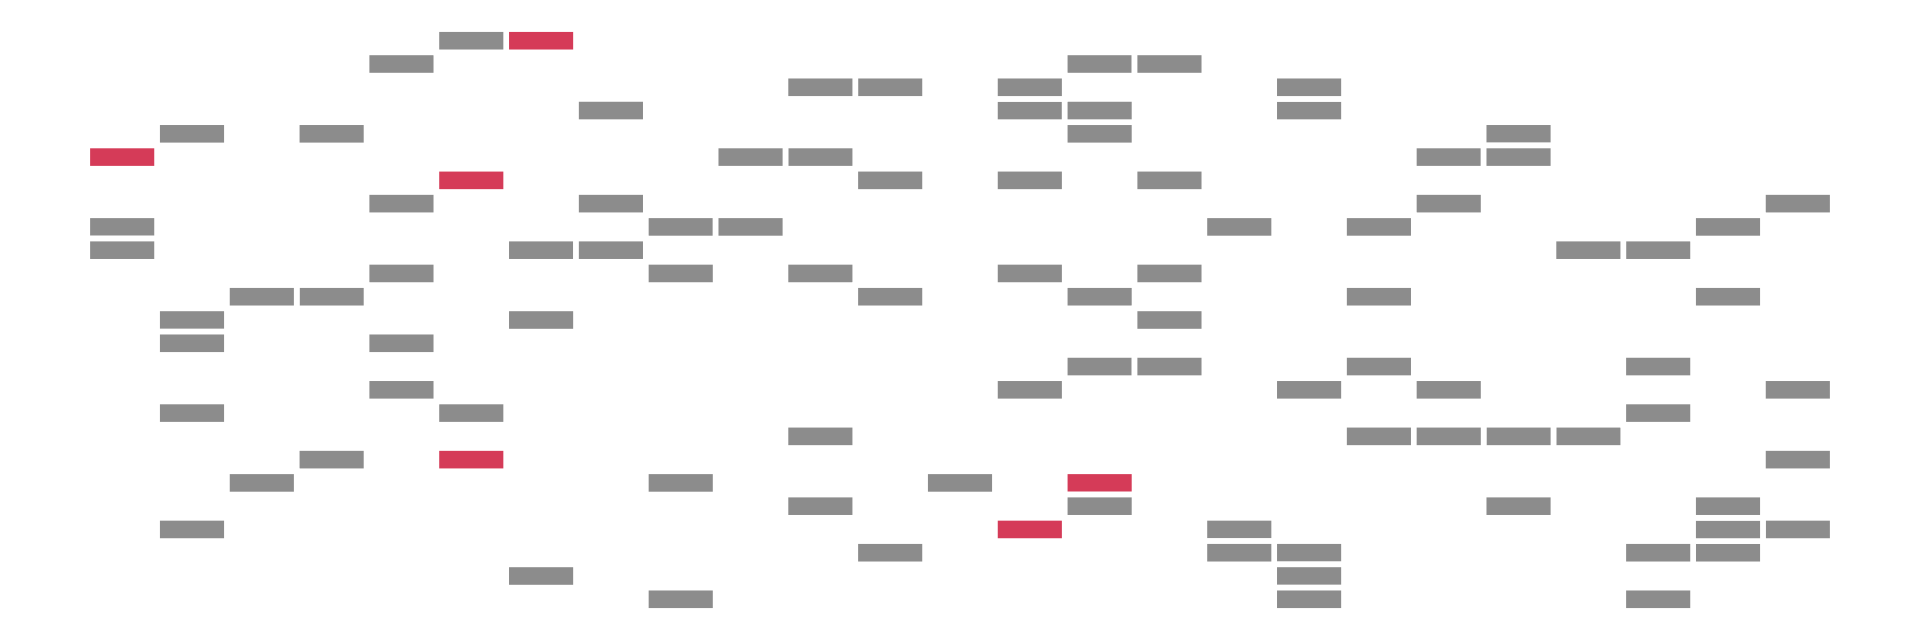
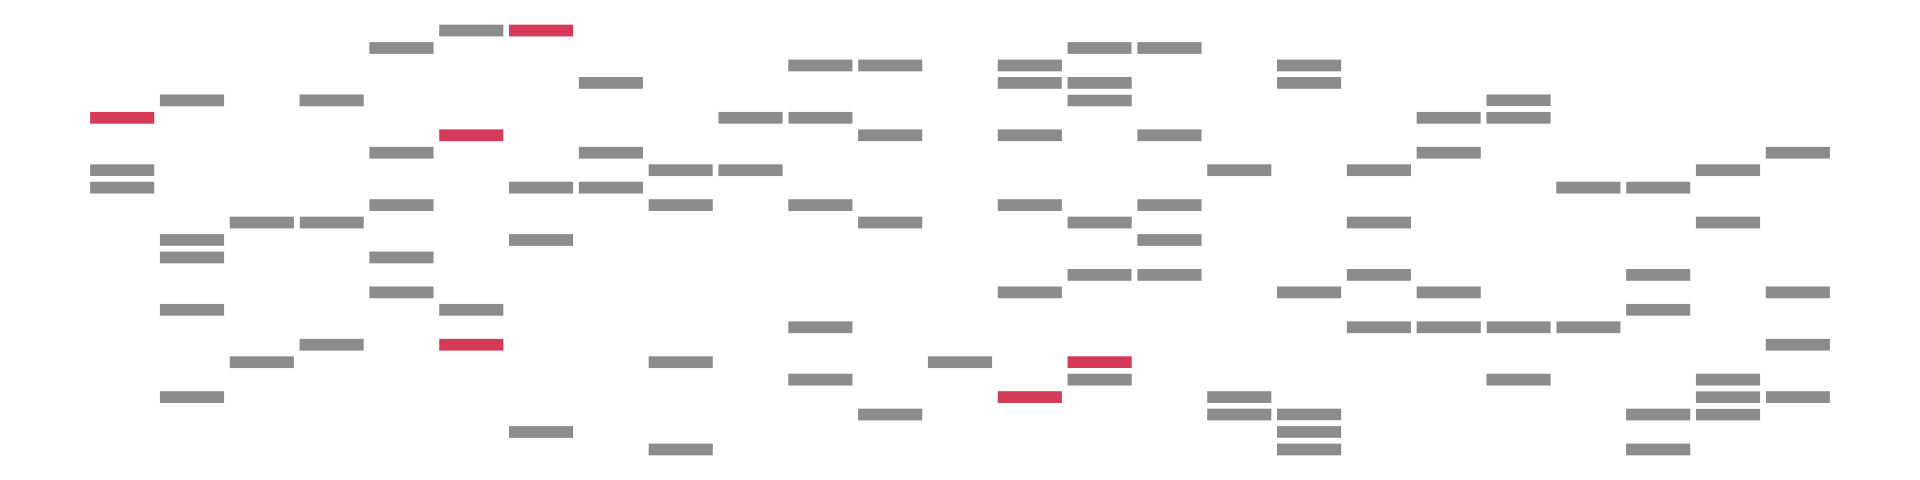
update

diff --git a/10-law-of-large-numbers.html b/10-law-of-large-numbers.html
@@ -437,14 +437,14 @@
 <div class="columns fragment">
 <div class="column">
 <p><strong>Population</strong></p>
-<div class="cell" data-fig.asp="0.3333">
+<div class="cell" data-fig.asp="0.25">
 <div class="cell-output-display">
 <p><img data-src="10-law-of-large-numbers_files/figure-revealjs/unnamed-chunk-3-1.png" width="960"></p>
 </div>
 </div>
 </div><div class="column">
 <p><strong>Sample</strong></p>
-<div class="cell" data-fig.asp="0.3333">
+<div class="cell" data-fig.asp="0.25">
 <div class="cell-output-display">
 <p><img data-src="10-law-of-large-numbers_files/figure-revealjs/unnamed-chunk-4-1.png" width="960"></p>
 </div>
@@ -478,13 +478,13 @@
 </div>
 <div class="columns fragment">
 <div class="column">
-<div class="cell" data-fig.asp="1">
+<div class="cell">
 <div class="cell-output-display">
 <p><img data-src="img/sampling.gif"></p>
 </div>
 </div>
 </div><div class="column">
-<div class="cell" data-fig.asp="1">
+<div class="cell">
 <div class="cell-output-display">
 <p><img data-src="img/sampling-estimates.gif"></p>
 </div>
@@ -499,13 +499,13 @@
 </div>
 <div class="columns">
 <div class="column">
-<div class="cell" data-fig.asp="1">
+<div class="cell" data-fig.asp="0.6667">
 <div class="cell-output-display">
 <p><img data-src="10-law-of-large-numbers_files/figure-revealjs/unnamed-chunk-9-1.png" width="960"></p>
 </div>
 </div>
 </div><div class="column">
-<div class="cell" data-fig.asp="1">
+<div class="cell" data-fig.asp="0.6667">
 <div class="cell-output-display">
 <p><img data-src="10-law-of-large-numbers_files/figure-revealjs/unnamed-chunk-10-1.png" width="960"></p>
 </div>
@@ -822,8 +822,6 @@
 <ul>
 <li>Exercises from Dekking et al.&nbsp;Chapter 13: 13.1 to 13.11</li>
 <li>Simulate the probability in Exercise 13.2 b from Dekking et al.&nbsp;and compare with the Chebyshev’s bound</li>
-<li>Read Section 5.3 from Devore and Berk</li>
-<li>Exercises from Chapter 5 from Devore and Ber: 41, 44 to 46, 55, and 56</li>
 </ul>
 <p><br></p>
 <h3 id="simulation-in-r-worksheet">Simulation in R worksheet</h3>

diff --git a/09-computation-with-random-variables.html b/09-computation-with-random-variables.html
@@ -405,7 +405,8 @@
 <p>What is the marginal probability density function of <span class="math inline">\(X\)</span>?</p>
 <div class="nobullet r-fit-text">
 <ul>
-<li class="fragment">For <span class="math inline">\(20\le x\le 50\)</span>, <span class="math inline">\(f_X(x)=\int_{20}^{50} K(x^2+y^2) dy\)</span></li>
+<li class="fragment">For <span class="math inline">\(20\le x\le 50\)</span>,<br>
+<span class="math inline">\(\phantom{=}f_X(x)=\int_{20}^{50} K(x^2+y^2) dy\)</span></li>
 <li class="fragment"><span class="math inline">\(=30Kx^2 + K\frac{50^3-20^3}{3}=\frac{x^2}{78\ 000} + \frac{13}{780}\)</span></li>
 </ul>
 </div>
@@ -415,7 +416,8 @@
 <p>What is the marginal cumulative distribution function of <span class="math inline">\(X\)</span>?</p>
 <div class="nobullet r-fit-text">
 <ul>
-<li class="fragment">For <span class="math inline">\(20\le x\le 50\)</span>, <span class="math inline">\(F_X(a)=\int_{20}^a \left(\frac{x^2}{78\ 000} +\frac{13}{780}\right) dx\)</span></li>
+<li class="fragment">For <span class="math inline">\(20\le a\le 50\)</span>,<br>
+<span class="math inline">\(\phantom{=}F_X(a)=\int_{20}^a \left(\frac{x^2}{78\ 000} +\frac{13}{780}\right) dx\)</span></li>
 <li class="fragment"><span class="math inline">\(=\frac{a^3-20^3}{234\ 000}+\frac{13(a-20)}{780}\)</span></li>
 <li class="fragment"><span class="math inline">\(=\frac{1}{234\ 000}a^3+\frac{1}{60}a-\frac{43}{117}\)</span></li>
 </ul>
@@ -763,7 +765,7 @@
 <li><span class="math inline">\(F_Z(a)=\int_0^{a-1}\int_0^1 1 dydx + \int_{a-1}^1\int_0^{a-x} 1 dydx\)</span></li>
 <li><span class="math inline">\(=\int_0^{a-1}dx + \int_{a-1}^1 a-x dx\)</span></li>
 <li><span class="math inline">\(=(a-1) + a - (a^2 - a) -\frac{1-(a-1)^2}{2}\)</span></li>
-<li><span class="math inline">\(2a -\frac{a^2}{2}-1\)</span></li>
+<li><span class="math inline">\(=2a -\frac{a^2}{2}-1\)</span></li>
 </ul>
 </div>
 </div>
